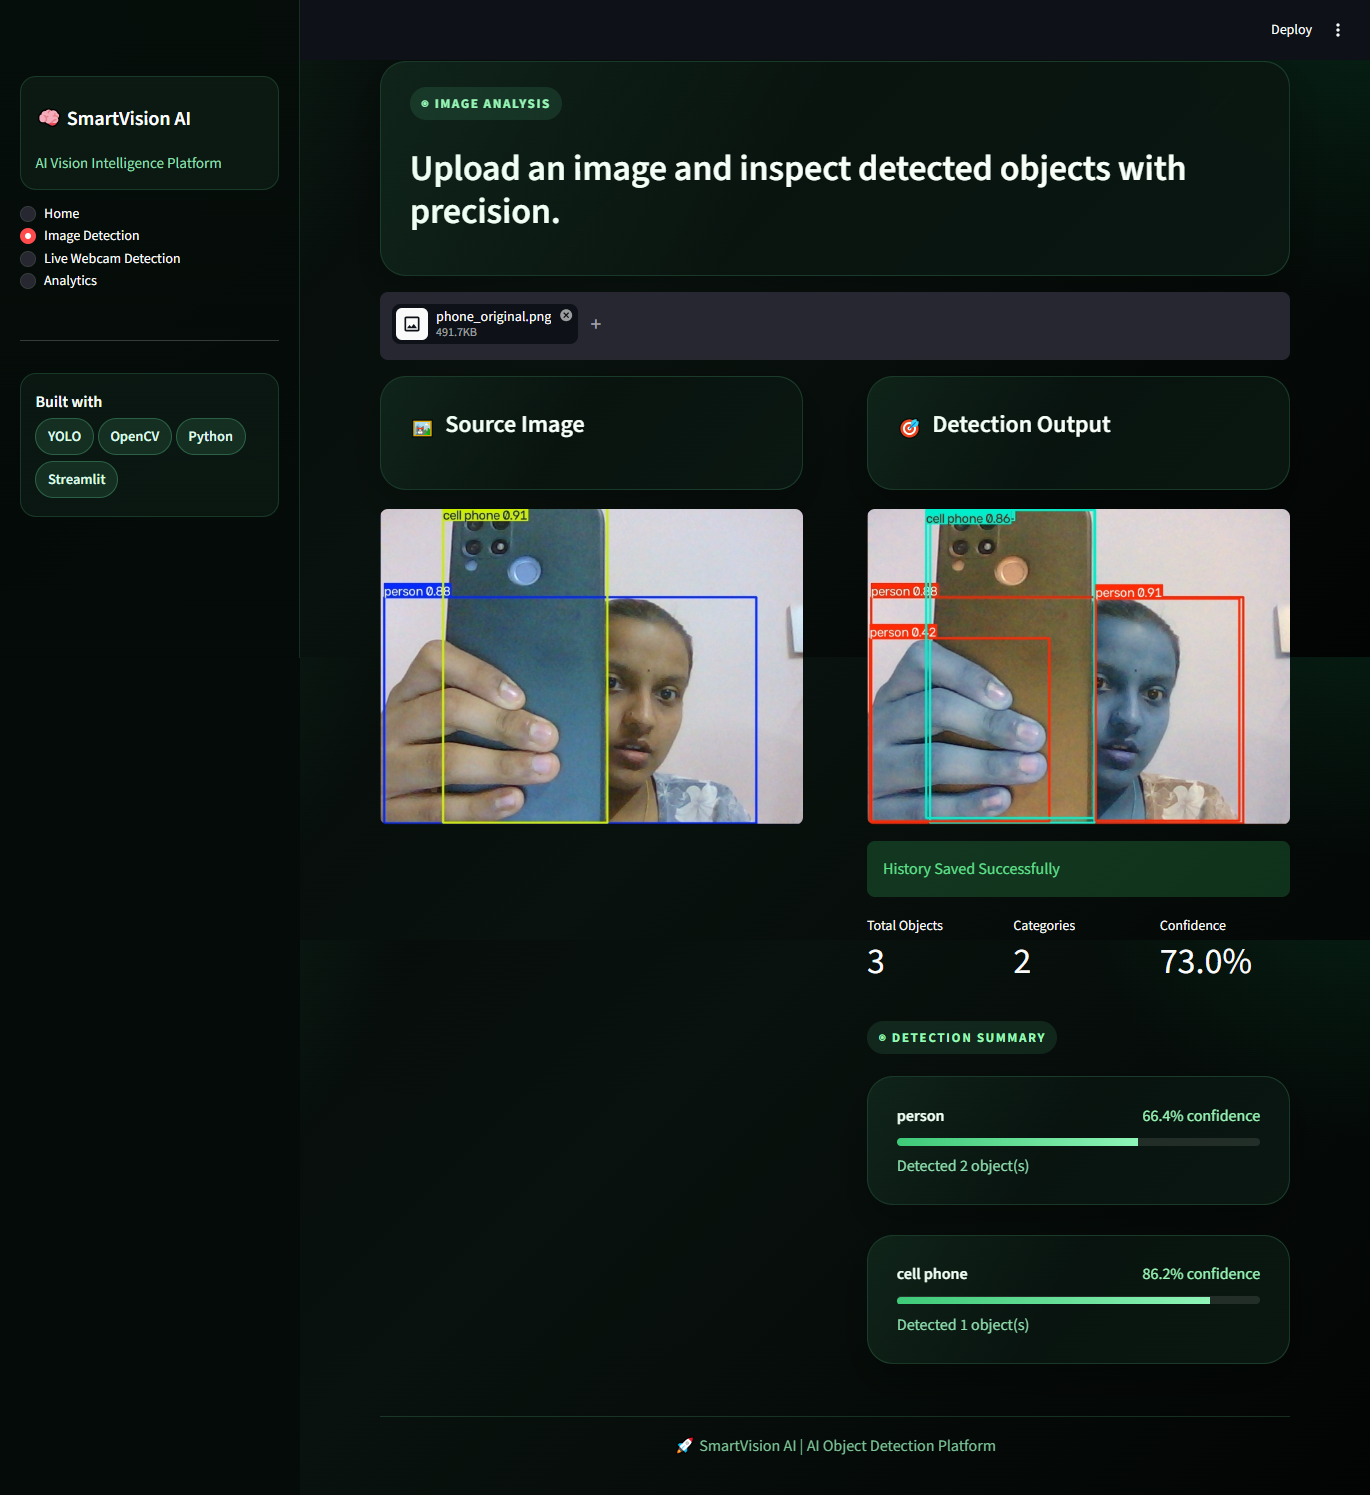
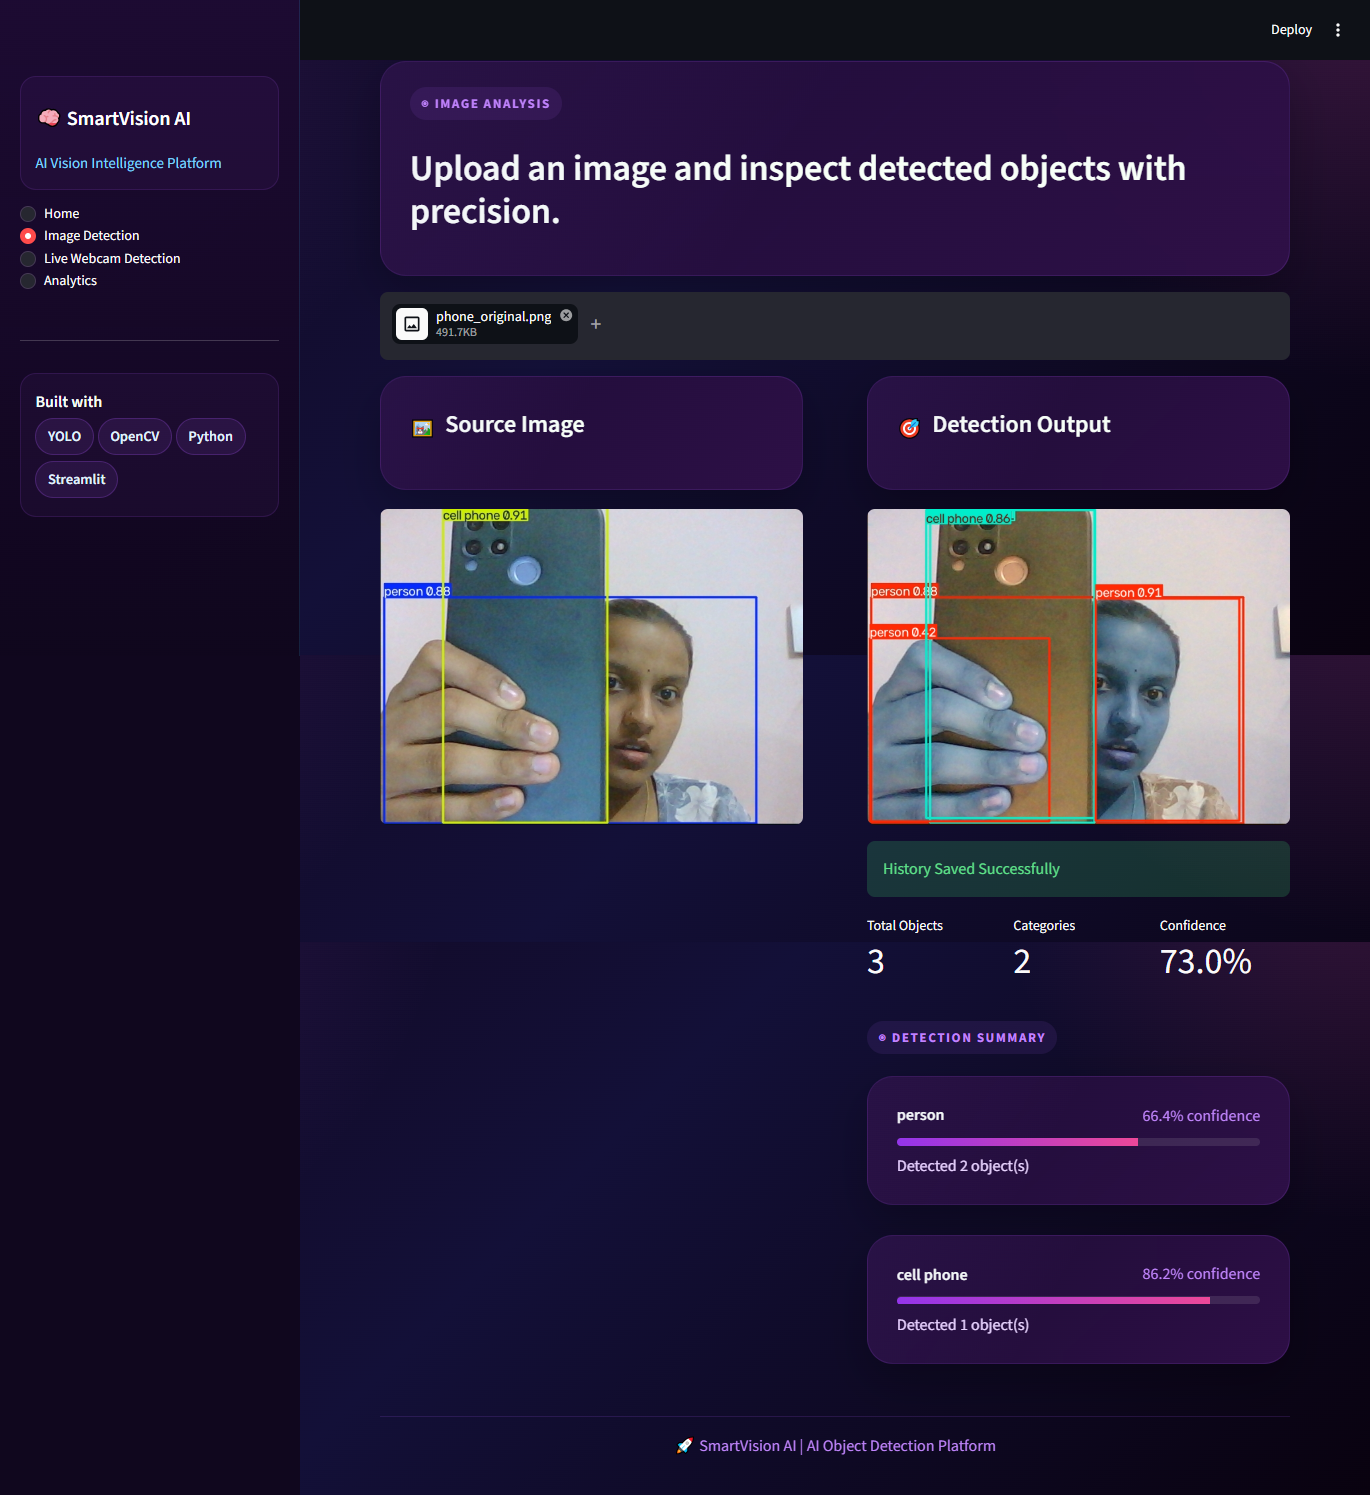
Updated SmartVision AI project

diff --git a/app.py b/app.py
@@ -19,13 +19,13 @@ st.markdown(
     }
     [data-testid="stAppViewContainer"] {
         background:
-            radial-gradient(circle at top left, rgba(87, 255, 173, 0.16), transparent 28%),
-            radial-gradient(circle at top right, rgba(7, 100, 57, 0.25), transparent 20%),
-            linear-gradient(135deg, #040706 0%, #09120e 45%, #020403 100%);
+            radial-gradient(circle at top left, rgba(168, 85, 247, 0.18), transparent 30%),
+            radial-gradient(circle at top right, rgba(236, 72, 153, 0.18), transparent 25%),
+            linear-gradient(135deg, #12071F 0%, #131038 45%, #09020F 100%);
     }
     [data-testid="stSidebar"] {
-        background: linear-gradient(180deg, rgba(6, 13, 10, 0.98), rgba(4, 10, 8, 0.96));
-        border-right: 1px solid rgba(111, 255, 178, 0.15);
+        background: linear-gradient(180deg, rgba(28, 11, 50, 0.98), rgba(15, 6, 28, 0.96));
+        border-right: 1px solid rgba(56, 189, 248, 0.15);
     }
     .block-container {
         padding-top: 2.8rem;
@@ -33,8 +33,8 @@ st.markdown(
         max-width: 1500px;
     }
     .hero-panel, .panel-card, .metric-card, .status-card {
-        background: linear-gradient(135deg, rgba(8, 17, 13, 0.95), rgba(11, 24, 18, 0.92));
-        border: 1px solid rgba(111, 255, 178, 0.16);
+        background: linear-gradient(135deg, rgba(30, 12, 55, 0.95), rgba(48, 16, 73, 0.92));
+        border: 1px solid rgba(168, 85, 247, 0.16);
         border-radius: 26px;
         padding: 1.6rem 1.8rem;
         margin-bottom: 1.2rem;
@@ -47,7 +47,7 @@ st.markdown(
         content: "";
         position: absolute;
         inset: 0;
-        background: linear-gradient(120deg, rgba(111, 255, 178, 0.08), transparent 45%, rgba(0, 0, 0, 0));
+        background: linear-gradient(120deg, rgba(168, 85, 247, 0.08), transparent 45%, rgba(0, 0, 0, 0));
         pointer-events: none;
     }
     .hero-title {
@@ -60,16 +60,16 @@ st.markdown(
     .hero-subtitle {
         font-size: 1.08rem;
         max-width:750px;
-        color: #8fdeae;
+        color: #E9D5FF;
         line-height: 1.7;
     }
     .pill {
         display: inline-block;
         padding: 0.38rem 0.72rem;
         border-radius: 999px;
-        background: rgba(111, 255, 178, 0.10);
-        border: 1px solid rgba(111, 255, 178, 0.24);
-        color: #dff8e9;
+        background: rgba(168, 85, 247, 0.10);
+        border: 1px solid rgba(168, 85, 247, 0.24);
+        color: #E0F2FE;
         margin: 0.2rem 0.25rem 0.2rem 0;
         font-size: 0.9rem;
         font-weight: 600;
@@ -80,8 +80,8 @@ st.markdown(
         gap: 8px;
         padding: 0.35rem 0.7rem;
         border-radius: 999px;
-        background: rgba(111, 255, 178, 0.10);
-        color: #98f7b6;
+        background: rgba(168, 85, 247, 0.10);
+        color: #C084FC;
         font-size: 0.82rem;
         font-weight: 700;
         letter-spacing: 0.12em;
@@ -91,22 +91,22 @@ st.markdown(
     .nav-card {
         padding: 0.9rem;
         border-radius: 16px;
-        border: 1px solid rgba(111, 255, 178, 0.14);
-        background: rgba(111, 255, 178, 0.05);
+        border: 1px solid rgba(168, 85, 247, 0.14);
+        background: rgba(168, 85, 247, 0.05);
         margin-bottom: 0.8rem;
     }
     .stButton > button, .stDownloadButton > button {
-        background: linear-gradient(135deg, #2f8f5a 0%, #56c781 100%);
+        background: linear-gradient(135deg, #9333EA 0%, #EC4899 100%);
         color: #041109;
         border: none;
         border-radius: 999px;
         font-weight: 700;
         padding: 0.55rem 1rem;
-        box-shadow: 0 10px 20px rgba(87, 255, 173, 0.18);
+        box-shadow: 0 10px 20px rgba(147, 51, 234, 0.18);
     }
     .stButton > button:hover, .stDownloadButton > button:hover {
         transform: translateY(-1px);
-        box-shadow: 0 12px 24px rgba(87, 255, 173, 0.24);
+        box-shadow: 0 12px 24px rgba(147, 51, 234, 0.24);
     }
     .stAlert, .stInfo, .stSuccess, .stError {
         border-radius: 16px;
@@ -150,7 +150,7 @@ def render_glass_card(title, content, icon="✨"):
                 <span style="font-size:1.16rem;">{icon}</span>
                 <h4 style="margin:0; color:#f7fff8;">{title}</h4>
             </div>
-            <div style="color:#8fdeae; line-height:1.65;">{content}</div>
+            <div style="color:#E9D5FF; line-height:1.65;">{content}</div>
         </div>
         """,
         unsafe_allow_html=True,
@@ -190,7 +190,7 @@ def render_home_page():
     with side_col:
         render_glass_card(
             "System Highlights",
-            "<ul style='margin:0; padding-left:1rem; color:#8fdeae;'><li>Instant image analysis</li><li>Live webcam detection</li><li>Performance insights and reports</li></ul>",
+            "<ul style='margin:0; padding-left:1rem; color:#E9D5FF;'><li>Instant image analysis</li><li>Live webcam detection</li><li>Performance insights and reports</li></ul>",
             icon="🛰",
         )
 
@@ -257,12 +257,12 @@ def render_image_detection_page(model):
                         <div class="panel-card" style="margin-top:0.7rem;">
                             <div style="display:flex; justify-content:space-between; align-items:center;">
                                 <strong style="color:#f7fff8;">{name}</strong>
-                                <span style="color:#98f7b6;">{conf_value:.1f}% confidence</span>
+                                <span style="color:#C084FC;">{conf_value:.1f}% confidence</span>
                             </div>
                             <div style="margin-top:0.6rem; height:8px; border-radius:999px; overflow:hidden; background:rgba(255,255,255,0.10);">
-                                <div style="height:100%; width:{conf_value:.1f}%; background:linear-gradient(90deg, #3bc775, #8ff5b8);"></div>
+                                <div style="height:100%; width:{conf_value:.1f}%; background:linear-gradient(90deg, #9333EA, #EC4899);"></div>
                             </div>
-                            <div style="margin-top:0.45rem; color:#8fdeae;">Detected {count} object(s)</div>
+                            <div style="margin-top:0.45rem; color:#E9D5FF;">Detected {count} object(s)</div>
                         </div>
                         """,
                         unsafe_allow_html=True,
@@ -379,7 +379,7 @@ def main():
             """
             <div class="nav-card">
                 <h2 style='color:white;margin:0 0 0.2rem 0;'>🧠 SmartVision AI</h2>
-                <p style='color:#8fdeae;font-size:15px;margin:0;'>AI Vision Intelligence Platform</p>
+                <p style='color:#7DD3FC;font-size:15px;margin:0;'>AI Vision Intelligence Platform</p>
             </div>
             """,
             unsafe_allow_html=True,
@@ -410,8 +410,8 @@ def main():
         margin-top:2rem;
         text-align:center;
         padding:1rem;
-        color:#7bc697;
-        border-top:1px solid rgba(111,255,178,0.16);'>
+        color:#C084FC;
+        border-top:1px solid rgba(168, 85, 247, 0.16);'>
         🚀 SmartVision AI | AI Object Detection Platform
         </div>
         """,
